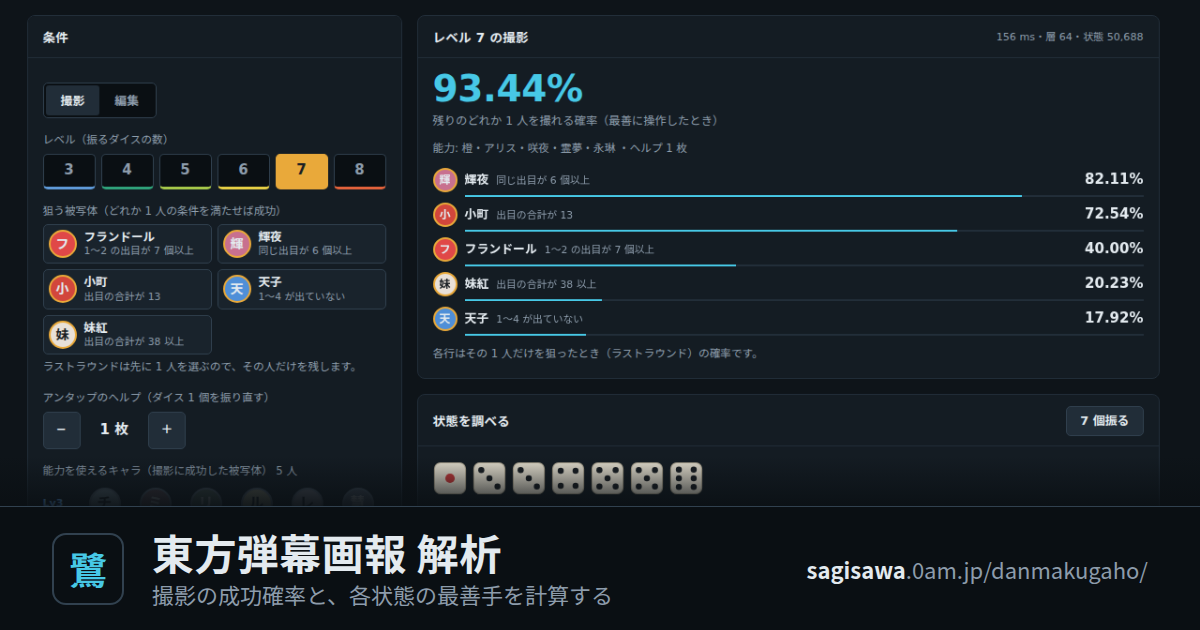
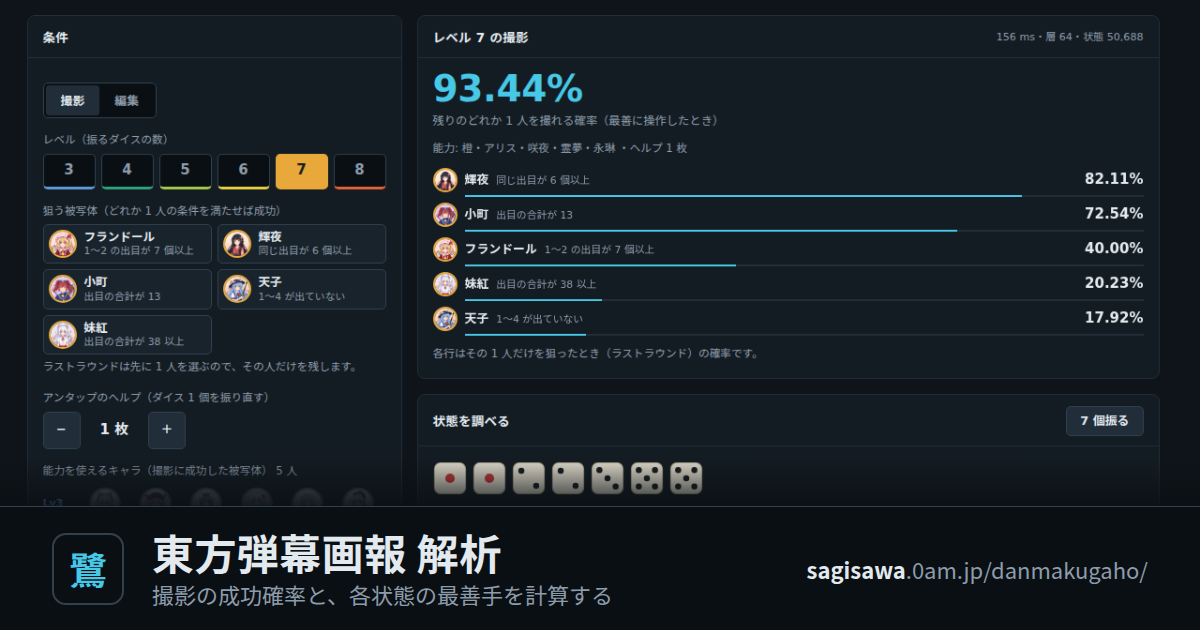
T411 キャラのアイコン 36 枚（Gemini で生成、256×256 の webp）と、それを使った og.png

diff --git a/web/public/chara/README.md b/web/public/chara/README.md
@@ -49,3 +49,7 @@
 | `eiki` | 映姫 | 四季映姫・ヤマザナドゥ | 8 | `#3f9b6e` |
 | `yukari` | 紫 | 八雲 紫 | 8 | `#8c5cc4` |
 | `kanako` | 神奈子 | 八坂 神奈子 | 8 | `#b85a3a` |
+
+## 生成した画像の記録
+
+- 2026-11-15（T411）: 36 枚全部（`<id>.webp`、256×256、品質 0.86）。Gemini の `gemini-3.1-flash-image`（1K の 1:1 を 1 枚ずつ、計 36 回・約 394 円）で作り、中央を 256×256 に縮めた。プロンプトの要点: 「Touhou Project の <英語名>（髪・服・持ち物の特徴）。かわいいアニメ調、頭と肩、顔は中央で正面、線画とセル塗り、無地の淡い背景、丸く切り抜ける余白。文字・ロゴ・枠なし」。差し替えるときは同じ id の `.png` を置くか、`.webp` を上書きする（同じ id に両方あると `.png` を使う）
